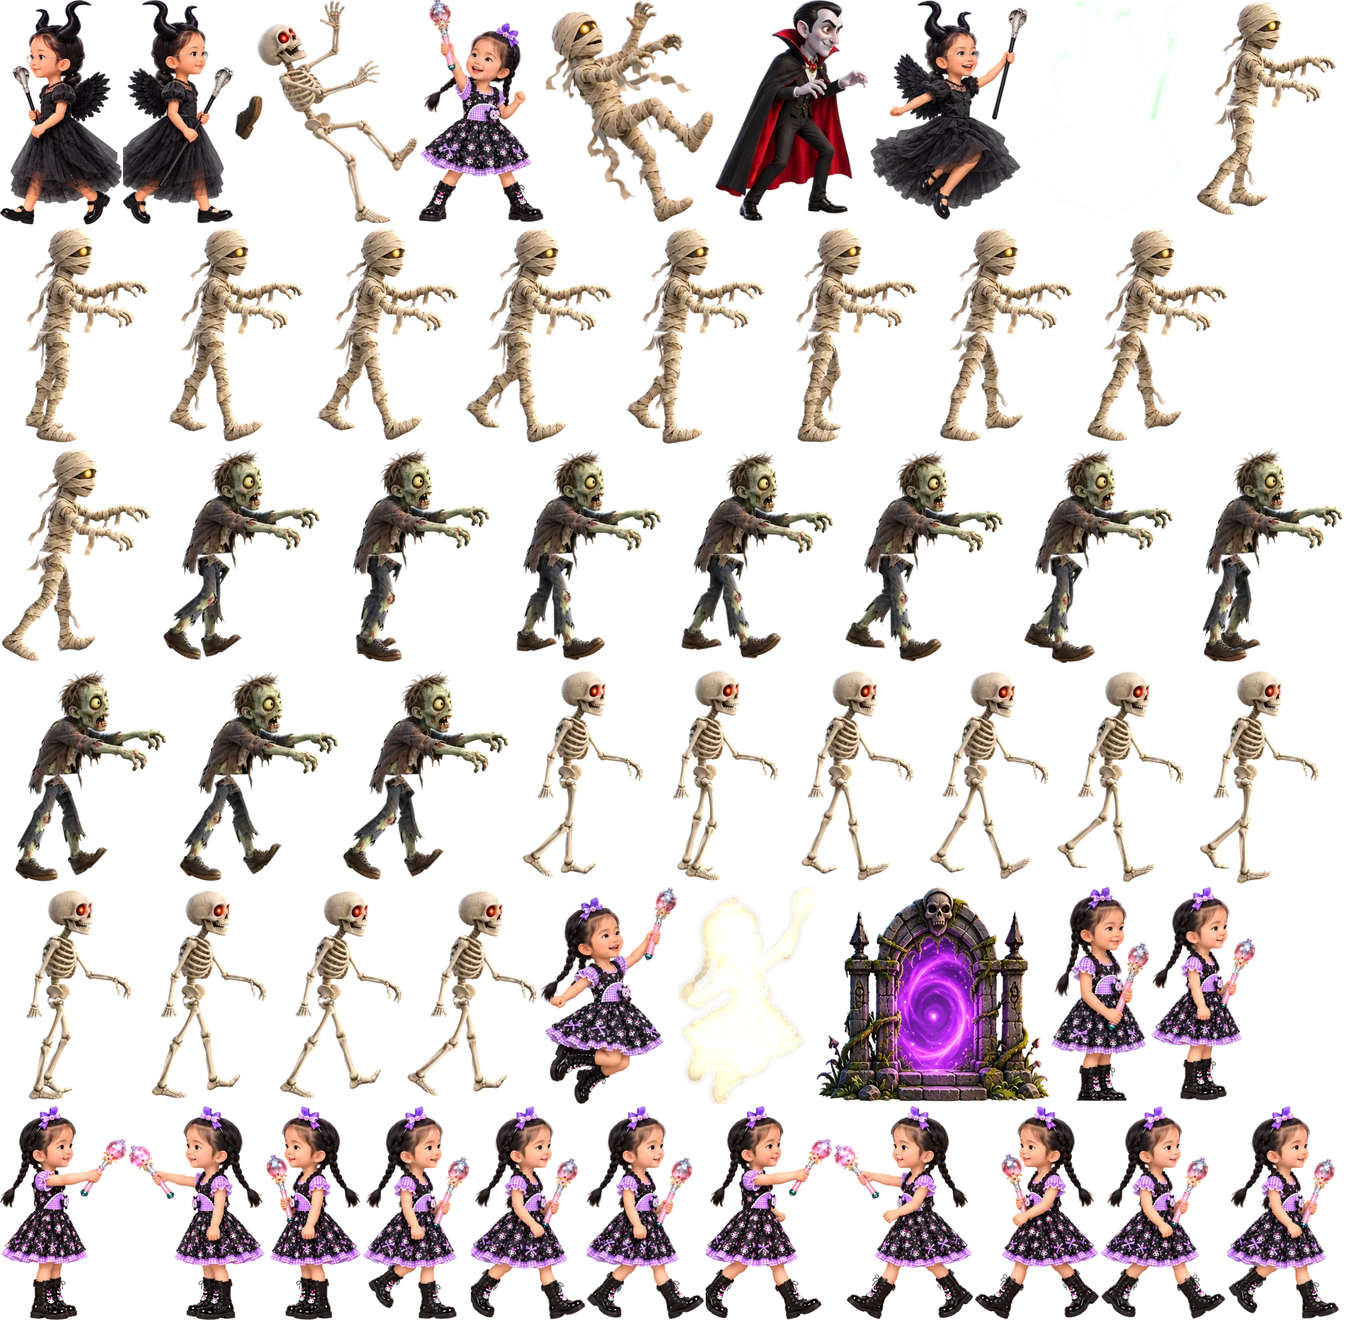
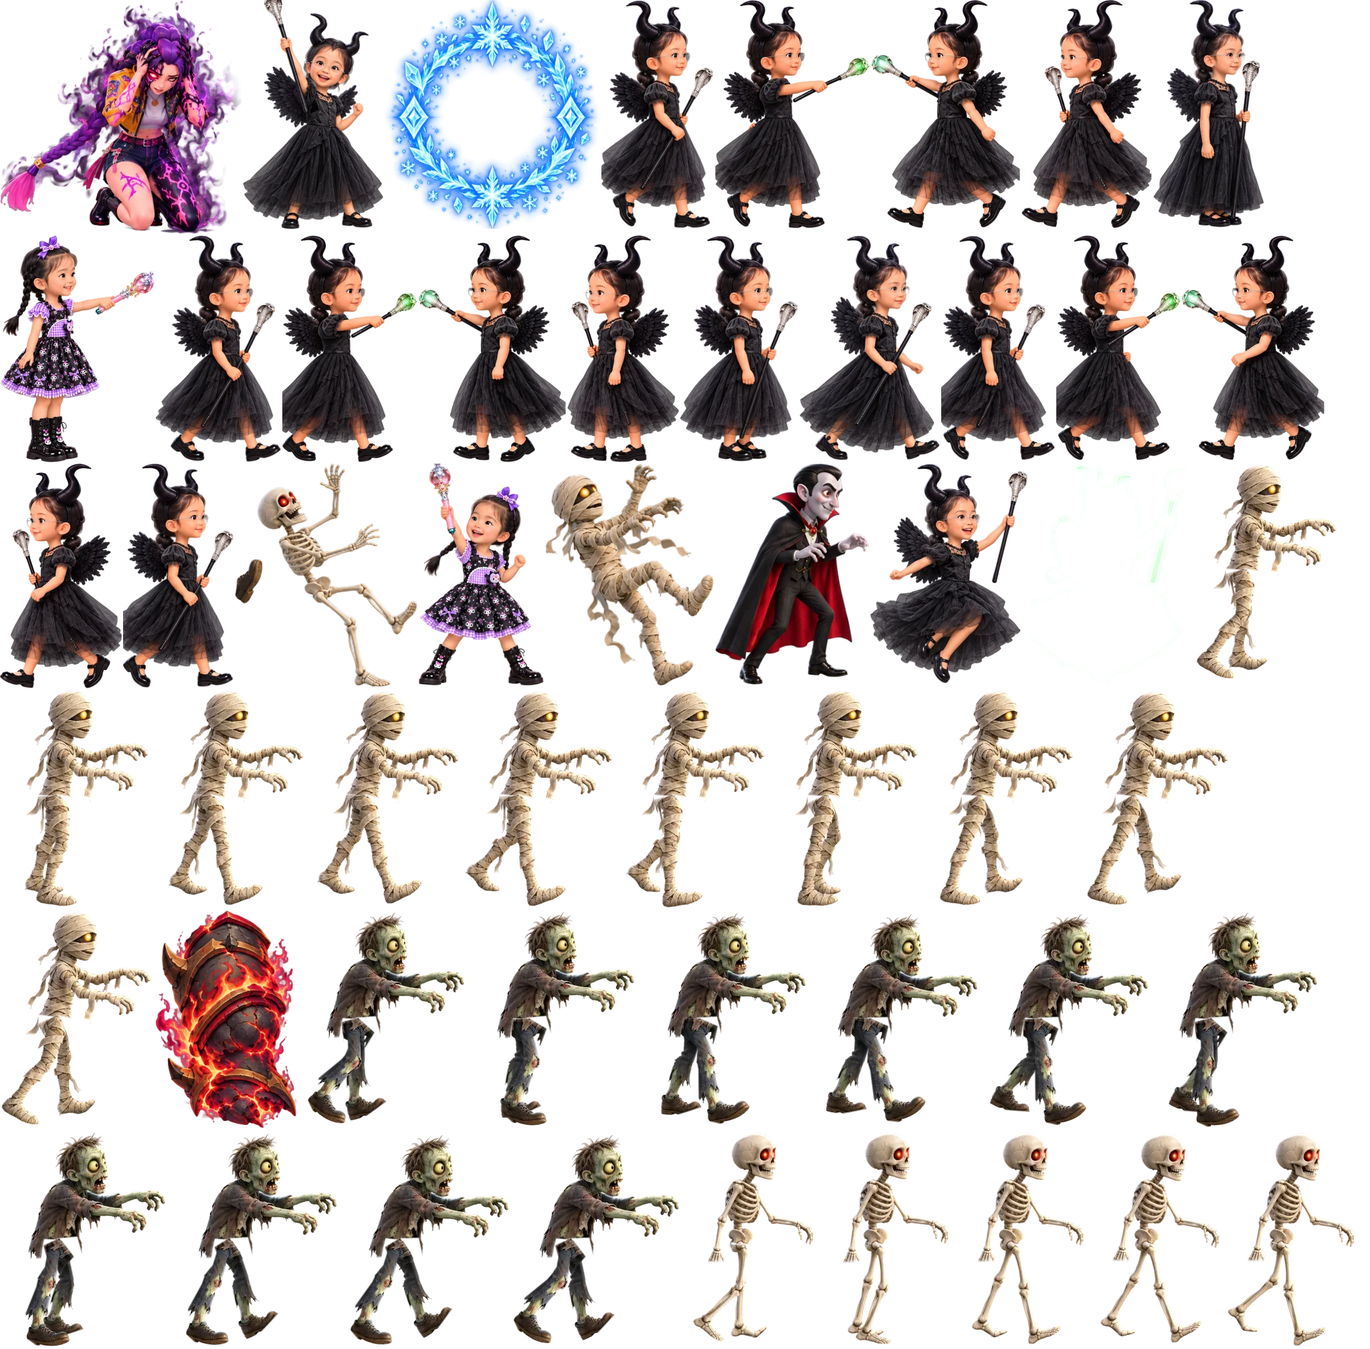
v3: Gwi Ma chiến binh cóc mặc giáp nửa đầu, phim giáp vỡ, thân lửa nửa sau với bộ chiêu khác
Claude-Session: https://claude.ai/code/session_018CdmaGRbzjkocUF5TVUzxd

diff --git a/index.html b/index.html
@@ -276,7 +276,7 @@
   let META = null, ready = false;
   function loadImg(src) { return new Promise((res, rej) => { const i = new Image(); i.onload = () => res(i); i.onerror = rej; i.src = src; }); }
   // ---------------------------------------------------------------- version: the site build stamps BUILD_VER and writes version.json beside the page
-  const BUILD_VER = "261025.2016", isBuilt = !BUILD_VER.startsWith("__");
+  const BUILD_VER = "261025.2113", isBuilt = !BUILD_VER.startsWith("__");
   async function latestVer() {
     try { return (await (await fetch("version.json?x=" + Date.now(), { cache: "no-store" })).json()).v; } catch (e) { return null; }
   }
@@ -579,7 +579,8 @@
     gwima:        { hp: 240, en: 0, spd: 0, prep: 0.9, atk: 0.6, cd: 2.4, gwima: true, heavy: true, fin: true, undying: true },
     // the finale's second half: Rumi under Gwi Ma's curse, then Gwi Ma's last form, the Toad Warrior (see the stage section)
     rumi_demon:   { hp: 210, en: 20, spd: 250, prep: 0.45, atk: 0.4, cd: 1.5, rumi: true, heavy: true, fin: true, undying: true, name: "Rumi Quỷ", r: 64 },
-    gwima_toad:   { hp: 360, en: 20, spd: 150, prep: 0.8, atk: 0.6, cd: 1.6, toad: true, heavy: true, fin: true, name: "Chiến Binh Cóc Lửa", r: 150 },
+    // (two stages: in armour until half health, then the bare flame body; see updateToad)
+    gwima_toad:   { hp: 360, en: 20, spd: 150, prep: 0.8, atk: 0.6, cd: 1.6, toad: true, heavy: true, fin: true, undying: true, name: "Chiến Binh Cóc Lửa", r: 150 },
   };
   const SAJA = ["saja_mystery", "saja_abby", "saja_jinu", "saja_baby", "saja_romance"];
   // elemental spells from monster drops: fire burns fast, poison drains slowly, ice slows. While one is held the auto-attack also fires faster.
@@ -1474,6 +1475,7 @@
     if (m.shield) { m.flash = 0.06; if (!dot && Math.random() < 0.3) burst(fx, fy - 120, 4, ["#ff6ec7", "#fff"], 160, 0.3); return; }
     m.hp -= dmg; m.flash = 0.12;
     if (m.hp <= 0 && m.c.undying) { m.hp = 0; return; }   // the finale's foes do not fall at once: the film takes over (updateCine)
+    if (m.armor && m.hp < m.max / 2) { m.hp = Math.floor(m.max / 2); return; }   // the Toad Warrior's armour holds until the film breaks it
     if (m.hp <= 0) return killMon(m, true, by);
     if (dot) return;
     play("hit");
@@ -2154,7 +2156,7 @@
   // the curse lifts from each in turn (OUT_LIFT + 0.45 s each), each boy says thank you (OUT_THANKS), then everyone cheers
   // (since the Toad Warrior: the girls and HUNTR/X sing him into a ring of light until OUT_BOOM, then the boys as before)
   const OUT_BOOM = 4.8, OUT_DEMON = 5.6, OUT_LIFT = 7.3, OUT_THANKS = 10.1, OUT_CHEER = 13.3, OUT_END = 18;
-  const CPH = ["intro", "fight", "outro", "curse", "save", "morph"], BOYX = [-560, -280, 0, 280, 560];
+  const CPH = ["intro", "fight", "outro", "curse", "save", "morph", "crack"], BOYX = [-560, -280, 0, 280, 560];
   // turns: two, two, Jinu (Gwi Ma throws fire from his throne), then Gwi Ma himself, then Demon Rumi, then the Toad Warrior
   const WAVES = [["saja_mystery", "saja_romance"], ["saja_abby", "saja_baby"], ["saja_jinu"], ["gwima"], ["rumi_demon"], ["gwima_toad"]];
   const SR = { x0: -1750, x1: 1750, y0: -1190, y1: 1150 };   // the walkable stage area, relative to the arena centre
@@ -2278,6 +2280,7 @@
         else if (c.wave === 3 && !left) startFilm("curse");
         else if (c.wave === 4 && !left) startFilm("save");
         else if (c.wave === 5 && !left) startFilm("outro");
+        else if (c.wave === 5) { const T = G.mons.find((m) => m.alive && m.c.toad); if (T && T.armor && T.hp <= T.max / 2) startFilm("crack"); }
       }
       const g = gwimaMon(); if (g) { c.gx = g.x; c.gy = g.y; }
     } else if (c.ph === "outro") {
@@ -2610,14 +2613,19 @@
   const CU_PULL = 0.7, CU_BEAM = 2.4, CU_HALF = 4.6, CU_FLASH = 6.2, CU_BACK = 7.0, CU_TALK = 7.6, CU_END = 10.4;
   const SV_RUN = 1.3, SV_TALK = 3.1, SV_HUG = 5.8, SV_FLASH = 7.9, SV_THANK = 8.5, SV_APART = 10.9, SV_END = 12.6;
   const MO_TALK = 0.6, MO_SPIN = 2.8, MO_FLASH = 6.8, MO_JUMP = 7.8, MO_END = 9.9;
+  // the armour breaking at half health (film "crack"): cracks spread, the plates burst off at CK_FLASH, the flame body roars
+  const CK_TALK = 0.4, CK_BURST = 2.9, CK_FLASH = 3.2, CK_ROAR = 3.6, CK_END = 6.8;
   const RUMI_AT = [0, -150], TOAD_LAND = [0, -560], SEAL_AT = [0, -900];
   // Gwi Ma's roar: how many come per wave (at most ROAR_CAP of his crowd at once), and who (demons and every map's monsters)
   const ROAR_N = [5, 5, 5, 4, 4, 4], ROAR_CAP = 8;
   const ROAR_KINDS = ["saja_minion", "saja_minion", "zombie", "skeleton", "ghost", "bat", "spider", "witch", "mummy", "vampire"];
   // the last two foes' moves (sent to the partner's page so it shows the same wind-ups)
-  const MOVES5 = ["", "dash", "slash", "blink", "spin", "blades", "furrow", "meteor", "leap", "charge", "bombs", "ring", "summon"];
+  const MOVES5 = ["", "dash", "slash", "blink", "spin", "blades", "furrow", "meteor", "leap", "charge", "bombs", "ring", "summon", "bash", "pound", "sweep", "fdash", "land"];
   const RD_MOVES = ["dash", "slash", "blink", "spin", "dash", "blades"];
-  const TOAD_MOVES = ["furrow", "meteor", "leap", "charge", "bombs", "ring", "furrow", "meteor", "leap", "summon", "charge", "bombs"];
+  // the Toad Warrior: in armour slow, heavy blows (shoulder bash, ground pound, armoured leap, spinning sweep);
+  // the bare flame body after the armour breaks: fast (meteors, fire bombs, flame dashes, flame waves, cracks)
+  const ARMOR_MOVES = ["pound", "bash", "sweep", "leap", "pound", "sweep", "bash", "summon"];
+  const FLAME_MOVES = ["meteor", "fdash", "bombs", "ring", "furrow", "fdash", "meteor", "bombs", "summon", "ring"];
   function roarCrowd(n) {
     const A = G.arena;
     for (let i = 0; i < n; i++) setTimeout(() => {
@@ -2691,7 +2699,7 @@
     } else if (c.ph === "morph") {
       if (at(MO_FLASH)) {
         hideMon(g);
-        const m = spawnMon("gwima_toad", c.gx || A.x, c.gy || A.y + GWIMA_Y); m.face = 0; m.wait = true; m.shield = true; m.summoned = true;
+        const m = spawnMon("gwima_toad", c.gx || A.x, c.gy || A.y + GWIMA_Y); m.face = 0; m.wait = true; m.shield = true; m.summoned = true; m.armor = true;
       }
       const T = G.mons.find((m) => m.alive && m.c.toad);
       if (at(MO_JUMP) && T) startJump(T, A.x + TOAD_LAND[0], A.y + TOAD_LAND[1], 1.4);
@@ -2699,13 +2707,17 @@
         if (T) { T.wait = false; T.shield = false; T.cd = 1.6; }
         c.ph = "fight"; c.wave = 5; c.t = 0; c.lock = false; c.focus = null;
       }
+    } else if (c.ph === "crack") {
+      const T = G.mons.find((m) => m.alive && m.c.toad);
+      if (at(CK_FLASH) && T) { T.armor = false; T.st = "web"; T.t = 0; T.move = ""; T.cyc = 0; }
+      if (c.t >= CK_END) { if (T) { T.st = "walk"; T.t = 0; T.cd = 1.2; } c.ph = "fight"; c.wave = 5; c.t = 0; c.lock = false; c.focus = null; c.cracked = 1; }
     }
   }
   // what both pages do during the films: sounds, banners, sparks, the camera
   function filmLocal(c, dt) {
     const A = G.arena, t = c.t, t0 = c.lt ?? t, at = (x) => t0 < x && t >= x;
     c.lt = t;
-    if (c.wave !== c.seenWave) { c.seenWave = c.wave; if (c.wave === 4) showBanner("Rumi Quỷ!", "Đánh bại Rumi Quỷ để cứu bạn ấy!"); if (c.wave === 5) showBanner("Trận chiến cuối cùng!", "Coi chừng thiên thạch và vết nứt!"); }
+    if (c.wave !== c.seenWave) { c.seenWave = c.wave; if (c.wave === 4) showBanner("Rumi Quỷ!", "Đánh bại Rumi Quỷ để cứu bạn ấy!"); if (c.wave === 5 && !c.cracked) showBanner("Trận chiến cuối cùng!", "Phá vỡ bộ giáp của hắn!"); }
     let zoom = 1, focus = null;
     const R = [c.rx || A.x, c.ry || A.y + RUMI_AT[1]], Gw = [c.gx || A.x, c.gy || A.y + TOAD_LAND[1]];
     if (c.ph === "curse") {
@@ -2762,6 +2774,27 @@
       const T = G.mons.find((m) => m.alive && m.c.toad);
       focus = t < MO_JUMP || !T ? [Gw[0], Gw[1] - 330] : [T.x, T.y - 330 - (T.jz || 0) * 0.4];
       zoom = t < MO_SPIN ? 1.1 : t < MO_FLASH ? 1.1 + 0.15 * (t - MO_SPIN) / (MO_FLASH - MO_SPIN) : 1;
+    } else if (c.ph === "crack") {
+      P.inv = Math.max(P.inv, 0.5);
+      const T = G.mons.find((m) => m.alive && m.c.toad) || { x: Gw[0], y: Gw[1] };
+      if (at(0.05)) { showBanner("Bộ giáp đang vỡ!", "Cố lên, sắp thắng rồi!"); SFX.slam(); G.shake = 18; }
+      if (t > 0.3 && t < CK_BURST && Math.random() < dt * (4 + 10 * t / CK_BURST)) { play("hit"); burst(T.x + rnd(-170, 170), T.y - rnd(120, 520), 10, ["#ffb347", "#ffd34d", "#fff"], 320, 0.5); }
+      if (t < CK_BURST) G.shake = Math.max(G.shake, 3 + 8 * t / CK_BURST);
+      if (at(CK_BURST)) {
+        // the plates burst off and fly away
+        SFX.boom(); G.shake = 34;
+        const bits = [0, 1, 2, 3, 4, 5, 6, 7].map((i) => `armor_bits_d${i >> 2}_w${i & 3}`).filter((n) => FR[n]);
+        for (let i = 0; i < 16; i++) {
+          const a = i / 16 * TAU + rnd(-0.2, 0.2), v = rnd(600, 1100);
+          G.parts.push({ type: "rock", x: T.x + Math.cos(a) * 120, y: T.y + rnd(-20, 20), z: 330 + Math.sin(a) * 200, vx: Math.cos(a) * v, vy: rnd(-160, 260), vz: rnd(600, 1200), rot: rnd(0, 6), vr: rnd(-8, 8),
+            name: bits.length ? bits[i % bits.length] : "qk_rock2", sc: bits.length ? rnd(1.5, 2.3) : rnd(0.8, 1.4), life: 2.6, max: 2.6 });
+        }
+        burst(T.x, T.y - 320, 120, ["#ff6a3d", "#ffd34d", "#fff", "#ff3d9a"], 1000, 1.3);
+        G.parts.push({ type: "ring", x: T.x, y: T.y - 40, r: 80, vr: 2400, life: 0.9, max: 0.9, col: "255,150,60" });
+      }
+      if (at(CK_ROAR)) { SFX.roar(); G.shake = 24; showBanner("Thân lửa thuần!", "Hắn nhanh hơn — coi chừng!"); }
+      focus = [T.x, T.y - 320];
+      zoom = 1.12;
     } else if (c.ph === "outro") {
       if (at(0.05)) showBanner("Cùng hát Bài Ca Ánh Sáng!", "HUNTR/X và các bé phong ấn Gwi Ma");
       if (t < OUT_BOOM && Math.random() < dt * 6) play("bell");
@@ -2873,32 +2906,44 @@
     if (m.jump) { stepJump(m, dt); m.st = "fly"; m.move = ""; return; }
     if (m.st === "fly" && m.move !== "leap") m.st = "walk";
     if (m.wait || (G.cine && G.cine.lock) || m.hp <= 0) { if (m.st !== "fly") m.st = "walk"; return; }
-    const T = targetFor(m.x, m.y), dx = T.x - m.x, dy = T.y - m.y, d = Math.hypot(dx, dy) || 1, ux = dx / d, uy = dy / d, fast = m.hp < m.max / 2;
+    // fast: the bare flame body (after the armour broke); the armour makes him slow and heavy
+    const T = targetFor(m.x, m.y), dx = T.x - m.x, dy = T.y - m.y, d = Math.hypot(dx, dy) || 1, ux = dx / d, uy = dy / d, fast = !m.armor;
     if (m.st === "walk" || m.st === "rest") {
-      if (m.st === "rest" && m.t > (fast ? 0.45 : 0.75)) { m.st = "walk"; m.t = 0; }
+      if (m.st === "rest" && m.t > (fast ? 0.4 : 0.8)) { m.st = "walk"; m.t = 0; }
       if (Math.abs(dx) > 40) m.flip = dx < 0;
-      const sp = c.spd * (fast ? 1.3 : 1);
+      const sp = fast ? 200 : 110;
       if (d > 270 && !T.dead) { m.x += ux * sp * dt; m.y += uy * sp * dt; }
       if (m.st === "walk" && m.cd <= 0 && !T.dead) {
-        m.move = TOAD_MOVES[(m.cyc = (m.cyc || 0) + 1) % TOAD_MOVES.length]; m.t = 0; m.ax = ux; m.ay = uy; SFX.roar();
+        const list = fast ? FLAME_MOVES : ARMOR_MOVES;
+        m.move = list[(m.cyc = (m.cyc || 0) + 1) % list.length]; m.t = 0; m.ax = ux; m.ay = uy; SFX.roar(); m.combo = m.move === "fdash" ? 3 : 1;
         m.st = m.move === "meteor" || m.move === "bombs" || m.move === "summon" ? "web" : "prep";
-        if (m.move === "leap") { m.ix = clamp(T.x, A.x + SR.x0 + 220, A.x + SR.x1 - 220); m.iy = clamp(T.y, A.y + SR.y0 + 300, A.y + SR.y1 - 200); addQuake(m.ix, m.iy, 240, (fast ? 0.6 : 0.85) + 0.9); }
+        if (m.move === "leap") { m.ix = clamp(T.x, A.x + SR.x0 + 220, A.x + SR.x1 - 220); m.iy = clamp(T.y, A.y + SR.y0 + 300, A.y + SR.y1 - 200); addQuake(m.ix, m.iy, 260, 1.0 + 0.9); }
       }
     } else if (m.st === "prep" || m.st === "web") {
-      if (m.move === "charge") { m.ax = ux; m.ay = uy; if (Math.abs(dx) > 40) m.flip = dx < 0; }
-      if (m.t > (fast ? 0.6 : 0.85)) toadAct(m, T, fast);
+      if (m.move === "charge" || m.move === "bash" || m.move === "fdash") { m.ax = ux; m.ay = uy; if (Math.abs(dx) > 40) m.flip = dx < 0; }
+      const wind = m.quick ? 0.25 : fast ? 0.55 : m.move === "sweep" ? 1.15 : 1.0;   // the armoured blows wind up longer: time to run
+      if (m.t > wind) toadAct(m, T, fast);
     } else if (m.st === "fly") {
       // the leap: an arc onto the marked spot, the ground cracks in a star where he lands
       const k = clamp(m.t / 0.9, 0, 1);
       m.x = m.lx0 + (m.ix - m.lx0) * k; m.y = m.ly0 + (m.iy - m.ly0) * k; m.jz = Math.sin(Math.PI * k) * 480;
-      if (k >= 1) { m.jz = 0; m.st = "atk"; m.t = 0; m.move = "land"; crossQuake(m.x, m.y, 8); G.shake = Math.max(G.shake, 24); dust(m.x, m.y, 20); SFX.slam(); }
+      if (k >= 1) {
+        m.jz = 0; m.st = "atk"; m.t = 0; m.move = "land"; crossQuake(m.x, m.y, 8); G.shake = Math.max(G.shake, 26); dust(m.x, m.y, 20); SFX.slam();
+        if (!fast) G.rings.push({ x: m.x, y: m.y, r: 120, sp: 520, life: 2, delay: 0.1 });   // the armoured slam also sends a shockwave
+      }
     } else if (m.st === "atk") {
-      if (m.move === "charge" && m.t < 0.85) {
-        m.x += m.ax * 1050 * dt; m.y += m.ay * 1050 * dt; if (Math.random() < 0.6) dust(m.x, m.y, 2);
-        for (const g of girls()) if (d2(g.x, g.y, m.x, m.y) < 170 * 170) hurtTarget(g, m.x, m.y);
+      // the shoulder bash (armour: slower, wider) and the flame dashes (three quick ones) run straight ahead
+      const run = m.move === "charge" || m.move === "bash" || m.move === "fdash", sp = m.move === "fdash" ? 1400 : m.move === "bash" ? 820 : 1050, dur = m.move === "fdash" ? 0.32 : 0.85;
+      if (run && m.t < dur) {
+        m.x += m.ax * sp * dt; m.y += m.ay * sp * dt; if (Math.random() < 0.6) dust(m.x, m.y, 2);
+        if (m.move === "fdash" && G.parts.length < 430) G.parts.push({ type: "dot", x: m.x + rnd(-60, 60), y: m.y - rnd(60, 420), vx: 0, vy: -60, life: 0.4, max: 0.4, r: rnd(10, 18), col: Math.random() < 0.5 ? "#ff6a3d" : "#ffb347" });
+        for (const g of girls()) if (d2(g.x, g.y, m.x, m.y) < (m.move === "bash" ? 190 : 165) ** 2) hurtTarget(g, m.x, m.y);
         const ex = m.x < A.x + SR.x0 + 200 || m.x > A.x + SR.x1 - 200 || m.y < A.y + SR.y0 + 250 || m.y > A.y + SR.y1 - 160;
-        if (ex || m.t > 0.8) { m.move = "land"; m.t = 0; crossQuake(m.x, m.y, fast ? 8 : 4); SFX.slam(); G.shake = Math.max(G.shake, 18); }
-      } else if (m.t > 0.9) { m.st = "rest"; m.t = 0; m.cd = c.cd * (fast ? 0.6 : 1) * rnd(0.9, 1.2); }
+        if (ex || m.t > dur - 0.05) {
+          if (m.move === "fdash" && --m.combo > 0) { m.st = "prep"; m.t = 0; m.quick = true; }
+          else { m.move = "land"; m.t = 0; m.quick = false; crossQuake(m.x, m.y, fast ? 6 : 4); SFX.slam(); G.shake = Math.max(G.shake, 18); }
+        }
+      } else if (m.t > 0.9) { m.st = "rest"; m.t = 0; m.quick = false; m.cd = c.cd * (fast ? 0.6 : 1.2) * rnd(0.9, 1.2); }
     }
     inStage(m, 170);
     if (!(m.jz > 60)) for (const g of girls()) if (d2(g.x, g.y, m.x, m.y) < 130 * 130) hurtTarget(g, m.x, m.y);
@@ -2921,7 +2966,21 @@
       for (const g of girls()) addQuake(g.x, g.y, 170, 1.4, "meteor");
       for (let i = 0; i < (fast ? 8 : 5); i++) addQuake(A.x + rnd(SR.x0 + 250, SR.x1 - 250), A.y + rnd(-900, SR.y1 - 250), 150, rnd(1.1, 2.2), "meteor");
     } else if (m.move === "leap") { m.st = "fly"; m.lx0 = m.x; m.ly0 = m.y; if (Math.abs(m.ix - m.x) > 30) m.flip = m.ix < m.x; }
-    else if (m.move === "charge") SFX.swoosh();
+    else if (m.move === "charge" || m.move === "bash" || m.move === "fdash") SFX.swoosh();
+    else if (m.move === "pound") {
+      // the armoured ground pound: cracks run out in eight lines all round him
+      SFX.slam(); G.shake = Math.max(G.shake, 20); addQuake(m.x, m.y, 200, 0.15); dust(m.x, m.y, 20);
+      for (let j = 0; j < 8; j++) {
+        const a = j * TAU / 8 + 0.2, ux = Math.cos(a), uy = Math.sin(a);
+        for (let i = 0; i < 6; i++) { const x = m.x + ux * (230 + i * 120), y = m.y + uy * (160 + i * 90); if (!inside(x, y)) break; addQuake(x, y, 95, 0.4 + i * 0.12); }
+      }
+    } else if (m.move === "sweep") {
+      // the spinning sweep of his spiked fists: everything close is hit, a shockwave rolls on
+      for (let i = 0; i < 6; i++) G.parts.push({ type: "slash", x: m.x + Math.cos(i * TAU / 6) * 220, y: m.y + Math.sin(i * TAU / 6) * 140 - 120, vx: 0, vy: 0, rot: i * TAU / 6 + Math.PI / 2, life: 0.5, max: 0.5, sc: 2 });
+      for (const g of girls()) { const ex = (g.x - m.x) / 340, ey = (g.y - m.y) / 230; if (ex * ex + ey * ey < 1) hurtTarget(g, m.x, m.y); }
+      G.rings.push({ x: m.x, y: m.y, r: 200, sp: 480, life: 1.6, delay: 0 });
+      SFX.swoosh(); SFX.slam(); G.shake = Math.max(G.shake, 18);
+    }
     else if (m.move === "bombs") {
       // fireballs lobbed out of his mouth at her and around her
       const gs = girls(), n = fast ? 6 : 4;
@@ -2942,8 +3001,9 @@
     }
   }
   function toadFrame(m) {
-    const k = "gwima_toad_d", c = G.cine;
+    const c = G.cine, k = m.armor && FR.gwima_armor_d0_w0 ? "gwima_armor_d" : "gwima_toad_d";
     if (c && c.ph === "morph") return c.t < MO_JUMP ? k + "1_w1" : k + "0_w0";   // bursting out of the flames, roaring
+    if (c && c.ph === "crack") return m.armor ? k + "1_w3" : k + "1_w1";   // the cracked armour on one knee, then the flame body roaring
     if (m.hp <= 0) return k + "1_w3";
     if (m.st !== "fly" && grimace(m)) return k + "1_w2";
     if (m.st === "prep") return k + "0_w3";
@@ -2961,7 +3021,9 @@
     shadow(m.x, m.y, 190, 42, 0.35);
     if ((m.st === "prep" || m.st === "web") && m.alive) {
       glow(m.x, y - 300, 380, "255,40,40", 0.2 + 0.18 * Math.sin(G.t * 22));
-      if (m.move === "charge") { ctx.save(); ctx.translate(m.x, m.y); ctx.rotate(Math.atan2(m.ay || 0, m.ax || 1)); ctx.globalAlpha = 0.16 + 0.12 * Math.sin(G.t * 22); ctx.fillStyle = "#ff3a2a"; ctx.fillRect(0, -110, 900, 220); ctx.globalAlpha = 0.7; ctx.strokeStyle = "#ffb060"; ctx.lineWidth = 5; ctx.setLineDash([22, 14]); ctx.strokeRect(0, -110, 900, 220); ctx.restore(); }
+      const lane = m.move === "charge" || m.move === "bash" || m.move === "fdash", lw = m.move === "bash" ? 130 : 110, ll = m.move === "fdash" ? 450 : m.move === "bash" ? 760 : 900;
+      if (lane) { ctx.save(); ctx.translate(m.x, m.y); ctx.rotate(Math.atan2(m.ay || 0, m.ax || 1)); ctx.globalAlpha = 0.16 + 0.12 * Math.sin(G.t * 22); ctx.fillStyle = "#ff3a2a"; ctx.fillRect(0, -lw, ll, lw * 2); ctx.globalAlpha = 0.7; ctx.strokeStyle = "#ffb060"; ctx.lineWidth = 5; ctx.setLineDash([22, 14]); ctx.strokeRect(0, -lw, ll, lw * 2); ctx.restore(); }
+      if (m.move === "sweep") { ctx.save(); const k = clamp(m.t / 1.15, 0, 1); ctx.globalAlpha = 0.14 + 0.1 * Math.sin(G.t * 22); ctx.fillStyle = "#ff3a2a"; ctx.beginPath(); ctx.ellipse(m.x, m.y, 340, 230, 0, 0, TAU); ctx.fill(); ctx.globalAlpha = 0.75; ctx.strokeStyle = "#ffb060"; ctx.lineWidth = 6; ctx.setLineDash([22, 14]); ctx.stroke(); ctx.setLineDash([]); ctx.beginPath(); ctx.ellipse(m.x, m.y, 340 * k, 230 * k, 0, 0, TAU); ctx.stroke(); ctx.restore(); }
     }
     spr(fn, m.x, y, flip, pop);
     if (m.flash > 0) sprFlash(fn, m.x, y, flip, pop, 0.4);
@@ -3142,6 +3204,25 @@
       }
       flash(MO_FLASH, "#ffd9c8", 0.5);
       filmSay(["Các ngươi dám…!", "Ta sẽ hoá thành Chiến Binh Cóc Lửa!"], Gw[0] + 600, Gw[1] - 380, MO_TALK, MO_SPIN, true);
+    } else if (c.ph === "crack") {
+      const T = G.mons.find((m) => m.alive && m.c.toad); if (!T) return;
+      if (t < CK_FLASH) {
+        // glowing cracks spreading over the armour from his chest
+        const k = clamp(t / CK_BURST, 0, 1), cx = T.x, cy = T.y - 330;
+        ctx.save(); ctx.globalCompositeOperation = "lighter"; ctx.lineCap = "round";
+        for (let i = 0; i < 14; i++) {
+          if (i / 14 > k * 1.3) continue;
+          let x = cx, y = cy; const a0 = i * 2.39;
+          ctx.strokeStyle = `rgba(255,${170 + (i % 3) * 25},90,${0.55 + 0.4 * k})`; ctx.lineWidth = 4 + 5 * k; ctx.beginPath(); ctx.moveTo(x, y);
+          for (let j = 0; j < 5; j++) { const a = a0 + Math.sin(i * 7 + j * 3) * 0.6, l = (40 + 30 * Math.sin(i + j)) * (0.4 + k); x += Math.cos(a) * l; y += Math.sin(a) * l * 1.1; ctx.lineTo(x, y); }
+          ctx.stroke();
+        }
+        ctx.restore();
+        glow(cx, cy, 200 + 260 * k, "255,150,60", 0.2 + 0.45 * k);
+      }
+      flash(CK_FLASH, "#fff0d8", 0.45);
+      filmSay(["Không! Bộ giáp của ta…!"], T.x + 560, T.y - 380, CK_TALK, CK_BURST - 0.1, true);
+      filmSay(["Giờ thì ta sẽ thiêu rụi tất cả!"], T.x + 560, T.y - 380, CK_ROAR + 0.3, CK_END - 0.2, true);
     } else if (c.ph === "outro" && t < OUT_BOOM + 0.6) {
       // the song of light: golden beams from the girls and HUNTR/X into him, notes flowing along, a ring of light closing in
       const tx = Gw[0], ty = Gw[1] - 300, k = clamp((t - 0.8) / 0.8, 0, 1) * clamp((OUT_BOOM + 0.4 - t) / 0.4, 0, 1);
@@ -5444,7 +5525,7 @@
       lv: G.level,
       m: G.mons.filter((m) => m.alive).map((m) => [m.id, MKINDS.indexOf(m.kind), m.x | 0, m.y | 0, m.face + (m.flip ? 8 : 0), MST.indexOf(m.st), m.hp,
         (m.hurt > 0 ? 1 : 0) | (m.flash > 0 ? 2 : 0) | sb(m) | (m.summoned ? 64 : 0) | (m.elite ? 128 : 0) | (m.shield ? 256 : 0), Math.round(m.t * 10), m.max, m.jz | 0,
-        m.c.fin ? MOVES5.indexOf(m.move || "") : 0, m.c.fin ? Math.round(Math.atan2(m.ay || 0, m.ax || 1) * 100) : 0]),   // the finale's foes: their move and its aim
+        m.c.fin ? MOVES5.indexOf(m.move || "") : 0, m.c.fin ? Math.round(Math.atan2(m.ay || 0, m.ax || 1) * 100) : 0, m.armor ? 1 : 0]),   // the finale's foes: their move and its aim; the Toad Warrior's armour
       b: B ? [B.x | 0, B.y | 0, B.dir, BST.indexOf(B.st), B.hp, Math.round(B.t * 10), (B.flash > 0 ? 1 : 0) | (B.hurtPose > 0 ? 2 : 0) | sb(B), B.dropY | 0, B.alive ? 1 : 0, B.ix | 0, B.iy | 0, B.jz | 0, B.max, BMOVES.indexOf(B.move), Math.round((B.ax || 0) * 100), Math.round((B.ay || 0) * 100)] : 0,
       qz: G.quiz ? [QPH.indexOf(G.quiz.ph), Math.round(G.quiz.t * 10), G.quiz.T, G.quiz.ok, G.quiz.a, G.quiz.b, G.quiz.op === "+" ? 0 : 1, ...G.quiz.ans, G.quiz.n || 0] : 0,
       bc: G.bcut ? [BCPH.indexOf(G.bcut.ph), Math.round(G.bcut.t * 10)] : 0,
@@ -5525,6 +5606,7 @@
       m.hurt = bits & 1 ? 0.1 : 0; if (bits & 2) m.flash = 0.12;
       m.slow = bits & 4 ? 1 : 0; m.burn = bits & 8 ? 1 : 0; m.poison = bits & 16 ? 1 : 0; m.summoned = !!(bits & 64); m.shield = !!(bits & 256); m.jz = num(a[10]);
       if (m.c.fin && a.length > 12) { m.move = MOVES5[num(a[11])] || ""; const an = num(a[12]) / 100; m.ax = Math.cos(an); m.ay = Math.sin(an); }
+      if (m.c.toad && a.length > 13) m.armor = !!a[13];
       if (m.frz && !(bits & 32)) iceShatter(m.x, m.y - (m.hgt || 90), (m.r || 40) * 3); m.frz = m.frzMax = bits & 32 ? 1 : 0;
     }
     for (const m of G.mons) if (m.alive && !seen.has(m.id)) {
